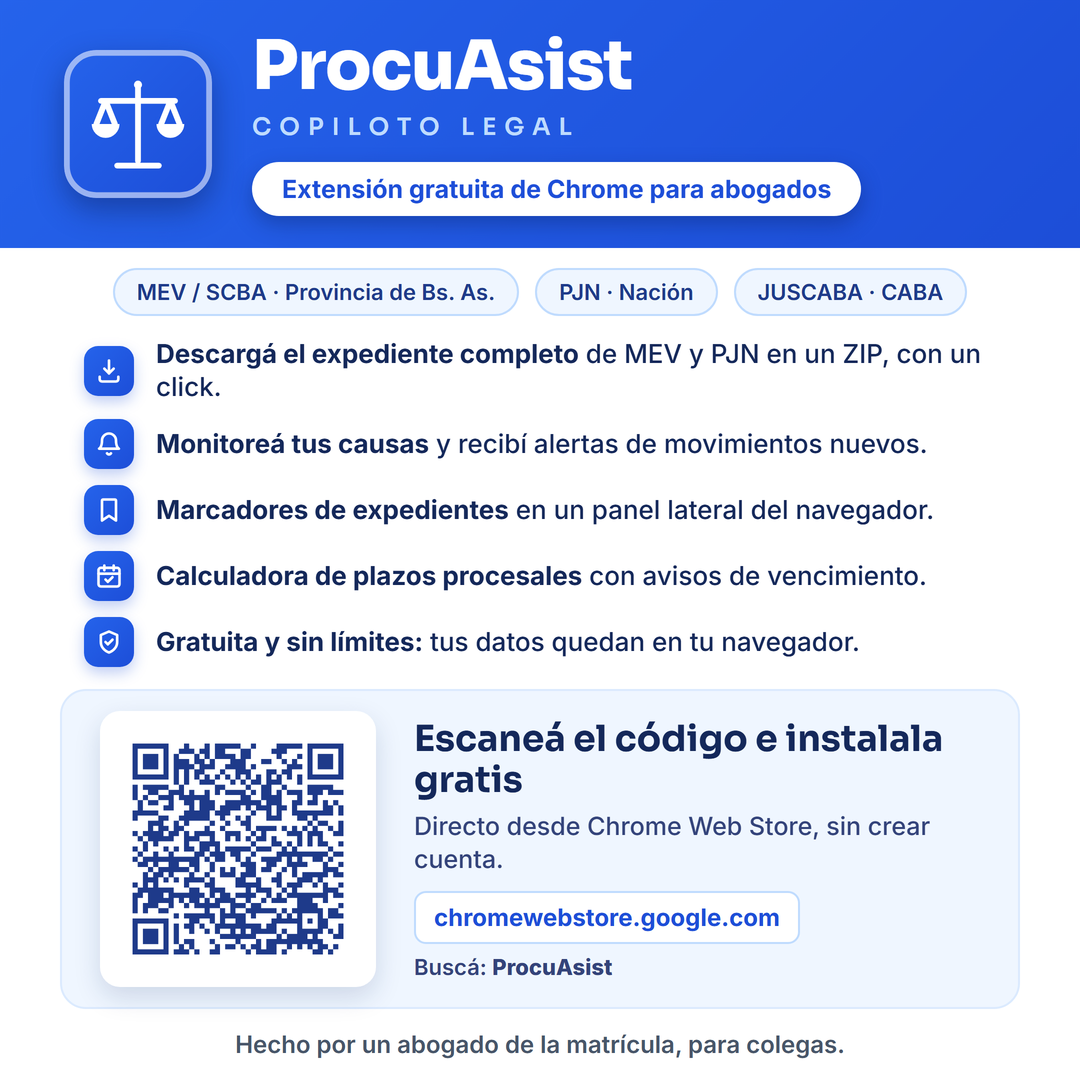
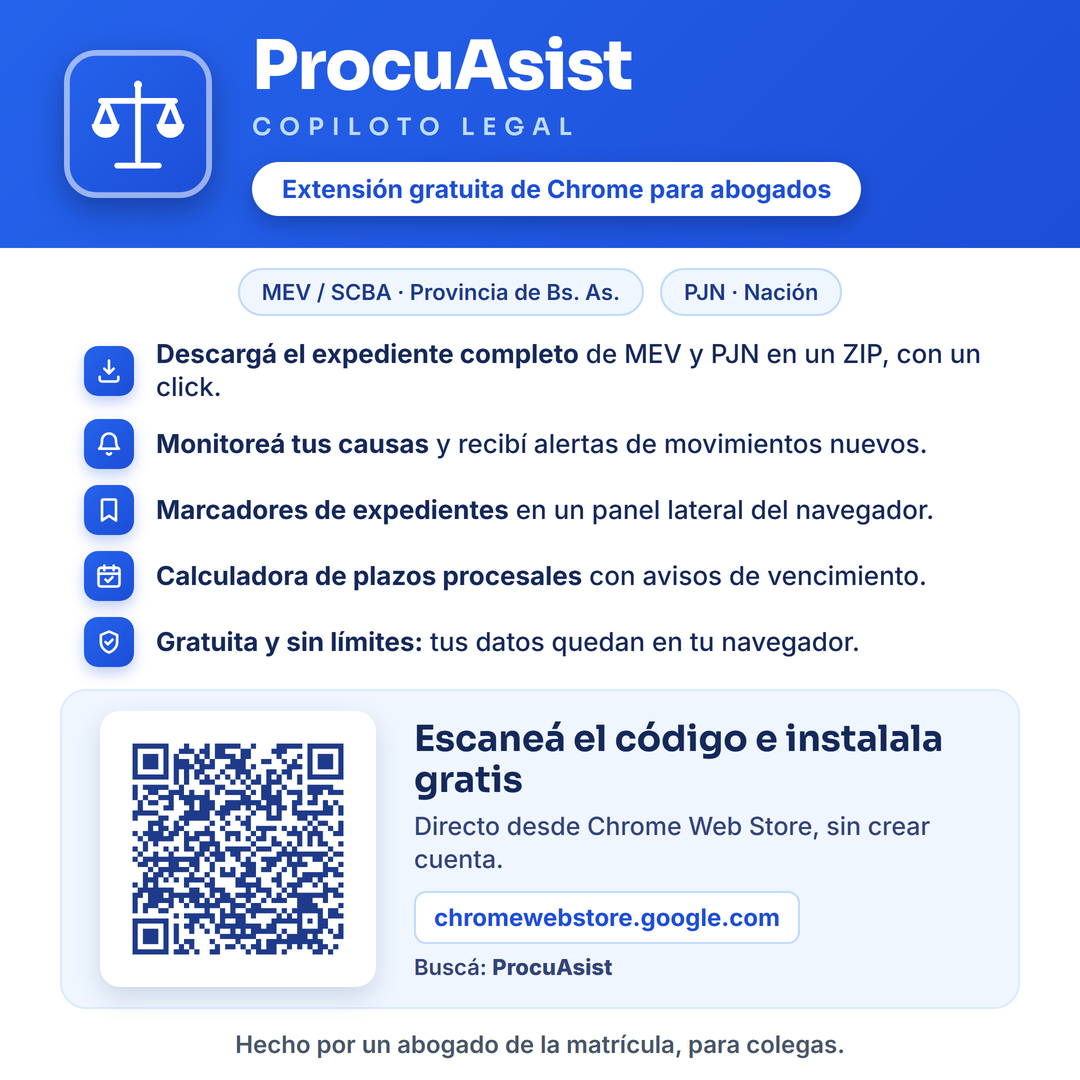
docs: flyer sin chip JUSCABA (pedido del titular)

Changed region(s): [[0.1222, 0.2444, 0.8861, 0.3056]]

diff --git a/docs/flyer/flyer-whatsapp-cuadrado.html b/docs/flyer/flyer-whatsapp-cuadrado.html
@@ -187,7 +187,6 @@
   <div class="chips">
     <span class="chip">MEV / SCBA · Provincia de Bs. As.</span>
     <span class="chip">PJN · Nación</span>
-    <span class="chip">JUSCABA · CABA</span>
   </div>
 
   <div class="bullets">

diff --git a/docs/flyer/flyer-whatsapp.html b/docs/flyer/flyer-whatsapp.html
@@ -186,7 +186,6 @@
   <div class="chips">
     <span class="chip">MEV / SCBA · Provincia de Bs. As.</span>
     <span class="chip">PJN · Nación</span>
-    <span class="chip">JUSCABA · CABA</span>
   </div>
 
   <div class="bullets">
